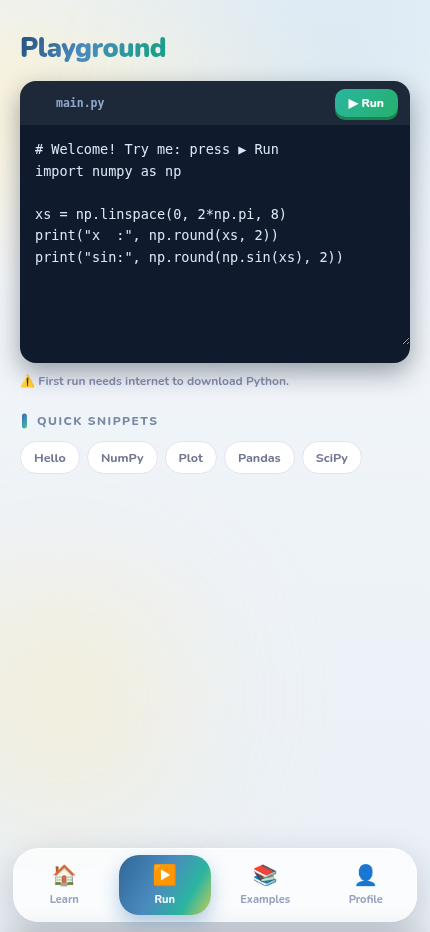
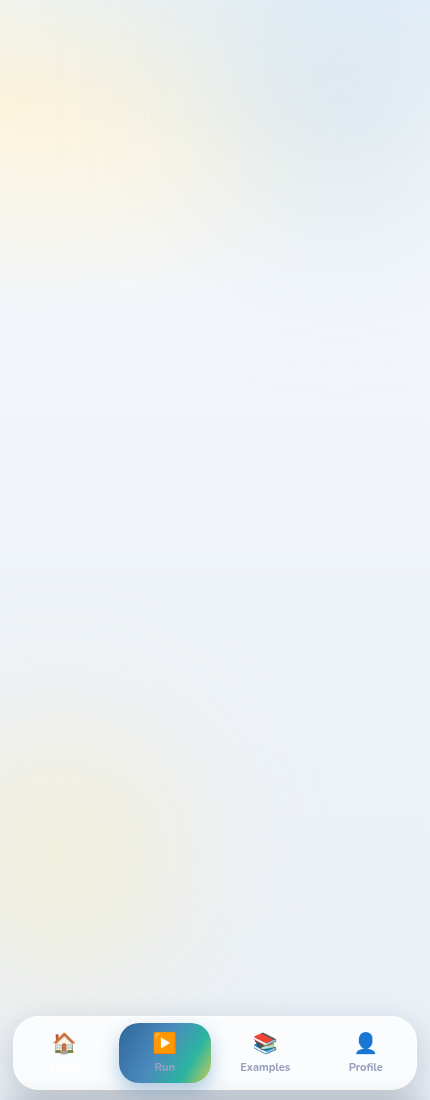
v3: playground snippet library — 88 runnable examples across 5 packages
- New categorized library in the Playground: Python (19), NumPy (18),
  SciPy (14), Pandas (18), Matplotlib (19) — 88 one-tap snippets covering
  f-strings to eigenvalues, t-tests, pivot tables, violin plots, 3-D…
- Category chips with counts; monospace snippet chips load into the editor
- ALL 88 snippets executed and verified through the real Pyodide runtime
  (figures confirmed for every plotting snippet)
- SW cache v3

diff --git a/content.js b/content.js
@@ -649,3 +649,104 @@ EXAMPLES.push(
  {cat:'Python',icon:'🏦',title:{en:'OOP: bank account class',de:'OOP: Bankkonto-Klasse',fa:'شیءگرایی: کلاس حساب بانکی'},
   code:'class Account:\n    def __init__(self, owner):\n        self.owner = owner\n        self.history = []\n\n    def deposit(self, x):  self.history.append(+x); return self\n    def withdraw(self, x): self.history.append(-x); return self\n\n    @property\n    def balance(self):\n        return sum(self.history)\n\nacc = Account("Ada")\nacc.deposit(100).withdraw(30).deposit(55)\nprint(acc.owner, "→", acc.balance, "€")\nprint("transactions:", acc.history)'}
 );
+
+/* ================= playground snippet library (per package) ================= */
+const PGLIB={
+'Python':[
+ {t:'f-strings',c:'name, score = "Ada", 97.5\nprint(f"{name}: {score:.1f} points")\nprint(f"{name!r} padded: |{name:>10}|")\nprint(f"binary of 42: {42:b}, hex: {255:x}")'},
+ {t:'string methods',c:'s = "  Hello, Python World  "\nprint(s.strip())\nprint(s.lower(), "|", s.upper())\nprint(s.replace("World", "🌍"))\nprint("-".join(["a", "b", "c"]))\nprint("hello world".title(), "abc".startswith("ab"))'},
+ {t:'list operations',c:'nums = [3, 1, 4, 1, 5, 9, 2, 6]\nnums.append(5)\nnums.insert(0, 99)\nprint(nums)\nprint("pop:", nums.pop(), "→", nums)\nnums.remove(1)          # first 1 only\nprint(sorted(nums), max(nums), sum(nums))'},
+ {t:'slicing tricks',c:'a = list(range(10))\nprint(a[2:8:2])   # start:stop:step\nprint(a[::-1])    # reverse\nprint(a[-3:])     # last three\nb = a[:]          # copy\nb[0] = 999\nprint(a[0], b[0])'},
+ {t:'dict methods',c:'d = {"a": 1, "b": 2}\nd["c"] = 3\nprint(d.get("z", "default"))\nprint(list(d.keys()), list(d.values()))\nfor k, v in d.items():\n    print(k, "→", v)\nd2 = {**d, "b": 20}   # merge/override\nprint(d2)'},
+ {t:'sets',c:'a = {1, 2, 3, 4}\nb = {3, 4, 5, 6}\nprint("union:       ", a | b)\nprint("intersection:", a & b)\nprint("difference:  ", a - b)\nprint("sym. diff:   ", a ^ b)\nprint(3 in a, 99 in a)'},
+ {t:'comprehensions',c:'squares = [x*x for x in range(10)]\nevens   = [x for x in range(20) if x % 2 == 0]\npairs   = [(i, j) for i in "ab" for j in "12"]\nd       = {w: len(w) for w in ["hi", "hello", "hey"]}\nprint(squares)\nprint(evens)\nprint(pairs)\nprint(d)'},
+ {t:'enumerate & zip',c:'names  = ["Ada", "Alan", "Grace"]\nyears  = [1815, 1912, 1906]\nfor i, name in enumerate(names, start=1):\n    print(i, name)\nfor n, y in zip(names, years):\n    print(f"{n} was born in {y}")\nprint(dict(zip(names, years)))'},
+ {t:'sorting with key',c:'words = ["banana", "fig", "Apple", "date"]\nprint(sorted(words))                     # case-sensitive!\nprint(sorted(words, key=str.lower))\nprint(sorted(words, key=len, reverse=True))\npeople = [("Ada", 36), ("Alan", 41), ("Grace", 85)]\nprint(sorted(people, key=lambda p: p[1]))'},
+ {t:'map / filter / lambda',c:'nums = [1, 2, 3, 4, 5, 6]\ndoubled = list(map(lambda x: 2*x, nums))\nodds    = list(filter(lambda x: x % 2, nums))\nprint(doubled)\nprint(odds)\nprint(list(map(str.upper, ["a", "b"])))'},
+ {t:'exceptions',c:'def parse(x):\n    try:\n        return int(x)\n    except ValueError as e:\n        print("  cannot parse:", e)\n        return None\n\nprint(parse("42"))\nprint(parse("hello"))\n\ntry:\n    raise RuntimeError("custom error!")\nexcept RuntimeError as e:\n    print("caught:", e)'},
+ {t:'classes',c:'class Point:\n    def __init__(self, x, y):\n        self.x, self.y = x, y\n    def __repr__(self):\n        return f"Point({self.x}, {self.y})"\n    def __add__(self, other):\n        return Point(self.x + other.x, self.y + other.y)\n\np = Point(1, 2) + Point(3, 4)\nprint(p)'},
+ {t:'dataclasses',c:'from dataclasses import dataclass\n\n@dataclass\nclass Book:\n    title: str\n    pages: int\n    read: bool = False\n\nb = Book("Fluent Python", 792)\nprint(b)\nb.read = True\nprint(b.read, b.pages > 500)'},
+ {t:'generators',c:'def countdown(n):\n    while n > 0:\n        yield n\n        n -= 1\n\nprint(list(countdown(5)))\n\ngen = (x*x for x in range(1_000_000))  # lazy, no memory!\nprint(next(gen), next(gen), next(gen))\nprint(sum(x for x in range(101)))'},
+ {t:'itertools',c:'import itertools as it\n\nprint(list(it.combinations("ABCD", 2)))\nprint(list(it.permutations("AB")))\nprint(list(it.islice(it.count(10, 5), 4)))\nprint(list(it.chain([1, 2], [3, 4])))\nfor k, grp in it.groupby("aaabbc"):\n    print(k, len(list(grp)))'},
+ {t:'collections',c:'from collections import Counter, defaultdict\n\nc = Counter("mississippi")\nprint(c.most_common(3))\n\nd = defaultdict(list)\nfor word in ["apple", "avocado", "banana", "blueberry"]:\n    d[word[0]].append(word)\nprint(dict(d))'},
+ {t:'datetime',c:'from datetime import date, timedelta\n\ntoday = date(2026, 7, 9)\nbirthday = date(2026, 12, 24)\ndiff = birthday - today\nprint("days to go:", diff.days)\nprint("in 90 days:", today + timedelta(days=90))\nprint(today.strftime("%A, %d %B %Y"))'},
+ {t:'json',c:'import json\n\ndata = {"name": "Ada", "skills": ["math", "python"], "level": 9}\ns = json.dumps(data, indent=2)\nprint(s)\nback = json.loads(s)\nprint(back["skills"][1], type(back))'},
+ {t:'recursion',c:'def factorial(n):\n    return 1 if n <= 1 else n * factorial(n - 1)\n\ndef fib(n, memo={}):\n    if n < 2: return n\n    if n not in memo:\n        memo[n] = fib(n-1) + fib(n-2)\n    return memo[n]\n\nprint("10! =", factorial(10))\nprint("fib(30) =", fib(30))'},
+],
+'NumPy':[
+ {t:'array creation',c:'import numpy as np\nprint(np.array([1, 2, 3]))\nprint(np.zeros((2, 3)))\nprint(np.ones(4))\nprint(np.full((2, 2), 7))\nprint(np.eye(3))'},
+ {t:'arange & linspace',c:'import numpy as np\nprint(np.arange(0, 20, 5))\nprint(np.linspace(0, 1, 6))\nprint(np.logspace(0, 3, 4))    # 1, 10, 100, 1000\nprint(np.arange(12).reshape(3, 4))'},
+ {t:'dtype & astype',c:'import numpy as np\na = np.array([1.7, 2.3, 3.9])\nprint(a.dtype)\nprint(a.astype(int))            # truncates!\nprint(np.round(a).astype(int))\nb = np.array([1, 2, 3], dtype=np.float32)\nprint(b.dtype, b.nbytes, "bytes")'},
+ {t:'2-D indexing',c:'import numpy as np\nm = np.arange(1, 13).reshape(3, 4)\nprint(m)\nprint("row 0:   ", m[0])\nprint("col 1:   ", m[:, 1])\nprint("center:  ", m[1, 1:3])\nprint("corners:\\n", m[::2, ::3])'},
+ {t:'boolean masks',c:'import numpy as np\nx = np.array([12, 5, 8, 20, 3, 15])\nprint(x[x > 10])\nprint(x[(x > 4) & (x < 16)])   # & not "and"!\nx[x < 6] = 0\nprint(x)\nprint("how many > 10:", (x > 10).sum())'},
+ {t:'fancy indexing',c:'import numpy as np\nx = np.array([10, 20, 30, 40, 50])\nidx = [0, 3, 3, 4]\nprint(x[idx])\norder = np.argsort([3, 1, 2])\nprint(order, x[:3][order])'},
+ {t:'broadcasting',c:'import numpy as np\nrow = np.array([1, 2, 3])\ncol = np.array([[10], [20], [30]])\nprint(row + col)        # 3x3!\nm = np.ones((3, 3))\nprint(m * row)\nprint((m.T * row).T)'},
+ {t:'aggregations & axis',c:'import numpy as np\nm = np.array([[4, 9, 2], [7, 1, 6]])\nprint("all:", m.sum(), m.mean().round(2))\nprint("per col:", m.sum(axis=0))\nprint("per row:", m.max(axis=1))\nprint("argmax:", m.argmax(), "→ pos", np.unravel_index(m.argmax(), m.shape))'},
+ {t:'sort & argsort',c:'import numpy as np\nx = np.array([30, 10, 50, 20])\nprint(np.sort(x))\nprint(np.argsort(x))       # indexes that would sort\nnames = np.array(["c", "a", "d", "b"])\nprint(names[np.argsort(x)])'},
+ {t:'unique & counts',c:'import numpy as np\nvotes = np.array(["a","b","a","c","b","a","a"])\nvals, counts = np.unique(votes, return_counts=True)\nfor v, c in zip(vals, counts):\n    print(v, "→", c)\nprint("winner:", vals[counts.argmax()])'},
+ {t:'np.where & select',c:'import numpy as np\ntemp = np.array([28, 12, 33, 5, 21])\nprint(np.where(temp > 20, "warm", "cold"))\ngrade = np.select([temp >= 30, temp >= 15], ["hot", "mild"], "cold")\nprint(grade)\nprint(np.clip(temp, 10, 30))'},
+ {t:'stack & concatenate',c:'import numpy as np\na = np.array([1, 2, 3]); b = np.array([4, 5, 6])\nprint(np.concatenate([a, b]))\nprint(np.vstack([a, b]))\nprint(np.hstack([a.reshape(-1,1), b.reshape(-1,1)]))\nprint(np.column_stack([a, b]))'},
+ {t:'random generator',c:'import numpy as np\nrng = np.random.default_rng(42)\nprint(rng.integers(1, 7, 8))          # dice\nprint(rng.random(3).round(3))\nprint(rng.normal(100, 15, 4).round(1))\nprint(rng.choice(["red","green","blue"], 5))\nprint(rng.permutation(np.arange(6)))'},
+ {t:'cumsum & diff',c:'import numpy as np\nx = np.array([1, 3, 6, 10, 15])\nprint("cumsum:", np.cumsum([1, 2, 3, 4, 5]))\nprint("diff:  ", np.diff(x))\nprint("cumprod:", np.cumprod([1, 2, 3, 4]))'},
+ {t:'percentile & stats',c:'import numpy as np\nrng = np.random.default_rng(1)\ndata = rng.normal(50, 10, 1000)\nprint("mean/median:", data.mean().round(2), np.median(data).round(2))\nprint("std:", data.std().round(2))\nfor q in [25, 50, 75, 95]:\n    print(f"p{q}: {np.percentile(data, q):.1f}")'},
+ {t:'linalg: solve & det',c:'import numpy as np\nA = np.array([[3., 1.], [1., 2.]])\nb = np.array([9., 8.])\nprint("x =", np.linalg.solve(A, b))\nprint("det =", np.linalg.det(A))\nprint("inv:\\n", np.linalg.inv(A).round(3))'},
+ {t:'eigenvalues',c:'import numpy as np\nA = np.array([[2., 0.], [1., 3.]])\nw, v = np.linalg.eig(A)\nprint("eigenvalues: ", w)\nprint("eigenvectors:\\n", v.round(3))\nprint("check A·v = λ·v:", np.allclose(A @ v[:,0], w[0]*v[:,0]))'},
+ {t:'matrix power & norm',c:'import numpy as np\nA = np.array([[1, 1], [1, 0]])\nprint(np.linalg.matrix_power(A, 10))   # Fibonacci!\nv = np.array([3., 4.])\nprint("norm:", np.linalg.norm(v))\nprint("normalized:", (v / np.linalg.norm(v)).round(3))'},
+],
+'SciPy':[
+ {t:'norm pdf & cdf',c:'from scipy import stats\nprint("P(x<1.96):", stats.norm.cdf(1.96).round(4))\nprint("95% quantile:", stats.norm.ppf(0.975).round(3))\nprint("density at 0:", stats.norm.pdf(0).round(4))\nprint("IQ>130:", (1 - stats.norm.cdf(130, 100, 15)).round(4))'},
+ {t:'describe data',c:'from scipy import stats\nimport numpy as np\ndata = np.random.default_rng(0).normal(10, 2, 500)\nd = stats.describe(data)\nprint("n:", d.nobs)\nprint("mean:", round(d.mean, 3), " var:", round(d.variance, 3))\nprint("min/max:", np.round(d.minmax, 2))\nprint("skew:", round(d.skewness, 3))'},
+ {t:'t-test',c:'from scipy import stats\nimport numpy as np\nrng = np.random.default_rng(1)\na = rng.normal(10.0, 2, 60)\nb = rng.normal(11.2, 2, 60)\nt, p = stats.ttest_ind(a, b)\nprint(f"t={t:.2f}  p={p:.4f}")\nprint("significant at 5%:", p < 0.05)'},
+ {t:'correlation (pearson)',c:'from scipy import stats\nimport numpy as np\nrng = np.random.default_rng(2)\nx = rng.random(100)\ny = 2*x + rng.normal(0, .2, 100)\nr, p = stats.pearsonr(x, y)\nprint(f"r = {r:.3f}, p = {p:.2e}")\nrho, _ = stats.spearmanr(x, y)\nprint(f"spearman rho = {rho:.3f}")'},
+ {t:'binomial & poisson',c:'from scipy import stats\n# 10 coin flips: P(exactly 7 heads)?\nprint("P(7 heads):", stats.binom.pmf(7, 10, 0.5).round(4))\nprint("P(≥8 heads):", (1 - stats.binom.cdf(7, 10, 0.5)).round(4))\n# shop: 4 customers/hour on average → P(0 in an hour)?\nprint("P(0 customers):", stats.poisson.pmf(0, 4).round(4))'},
+ {t:'minimize',c:'from scipy import optimize\nimport numpy as np\nf = lambda x: (x - 2)**2 + np.sin(5*x)\nres = optimize.minimize_scalar(f, bounds=(0, 4), method="bounded")\nprint("min at x =", round(res.x, 4))\nprint("f(x) =", round(res.fun, 4))'},
+ {t:'curve_fit',c:'import numpy as np\nfrom scipy.optimize import curve_fit\nrng = np.random.default_rng(0)\nx = np.linspace(0, 10, 50)\ny = 3*np.sin(0.8*x) + rng.normal(0, .3, 50)\nf = lambda x, a, w: a*np.sin(w*x)\n(a, w), _ = curve_fit(f, x, y, p0=[1, 1])\nprint(f"fitted: {a:.2f}·sin({w:.2f}·x)")'},
+ {t:'root finding',c:'from scipy import optimize\nimport numpy as np\n# where does x·e^x = 5 ?\nroot = optimize.brentq(lambda x: x*np.exp(x) - 5, 0, 3)\nprint("x =", round(root, 5))\nprint("check:", round(root*np.exp(root), 3))'},
+ {t:'integrate quad',c:'from scipy import integrate\nimport numpy as np\narea, err = integrate.quad(lambda x: np.exp(-x**2), -np.inf, np.inf)\nprint("Gauss integral:", round(area, 6))\nprint("√π           :", round(np.sqrt(np.pi), 6))\narea2, _ = integrate.quad(np.sin, 0, np.pi)\nprint("∫sin 0..π =", round(area2, 6))'},
+ {t:'solve ODE',c:'from scipy.integrate import solve_ivp\nimport numpy as np\n# exponential cooling: T\' = -0.3(T - 20)\nsol = solve_ivp(lambda t, T: -0.3*(T - 20), [0, 10], [90],\n                t_eval=np.linspace(0, 10, 6))\nfor t, T in zip(sol.t, sol.y[0]):\n    print(f"t={t:4.1f}  T={T:5.1f}°C")'},
+ {t:'interpolate',c:'from scipy import interpolate\nimport numpy as np\nx = np.array([0, 1, 2, 3, 4])\ny = np.array([0, 2, 1, 3, 2])\nf = interpolate.interp1d(x, y, kind="cubic")\nxs = np.linspace(0, 4, 9)\nprint(np.round(f(xs), 2))'},
+ {t:'find peaks',c:'from scipy.signal import find_peaks\nimport numpy as np\nt = np.linspace(0, 6*np.pi, 300)\nsig = np.sin(t) + 0.4*np.sin(3.3*t)\npeaks, props = find_peaks(sig, height=0.5)\nprint("peaks found:", len(peaks))\nprint("at t ≈", np.round(t[peaks], 2))'},
+ {t:'k-means',c:'from scipy.cluster.vq import kmeans2\nimport numpy as np\nrng = np.random.default_rng(5)\npts = np.vstack([rng.normal(0, .5, (50, 2)),\n                 rng.normal(3, .5, (50, 2))])\ncenters, labels = kmeans2(pts, 2, seed=2)\nprint("centers:\\n", centers.round(2))\nprint("cluster sizes:", np.bincount(labels))'},
+ {t:'distance matrix',c:'from scipy.spatial import distance_matrix\nimport numpy as np\ncities = np.array([[0, 0], [3, 4], [6, 8]])\nD = distance_matrix(cities, cities)\nprint(D.round(2))\nprint("farthest pair:", np.unravel_index(D.argmax(), D.shape))'},
+],
+'Pandas':[
+ {t:'Series basics',c:'import pandas as pd\ns = pd.Series([10, 20, 30], index=["a", "b", "c"])\nprint(s)\nprint(s["b"], s.mean(), s.idxmax())\nprint(s * 2)'},
+ {t:'DataFrame create',c:'import pandas as pd\ndf = pd.DataFrame({\n    "name": ["Ada", "Alan", "Grace"],\n    "age":  [36, 41, 85],\n    "field":["math", "cs", "cs"],\n})\nprint(df)\nprint()\nprint(df.shape, list(df.columns))'},
+ {t:'head / info / describe',c:'import pandas as pd\nimport numpy as np\ndf = pd.DataFrame(np.random.default_rng(0).normal(50, 10, (100, 3)),\n                  columns=["a", "b", "c"])\nprint(df.head(3).round(1))\nprint()\nprint(df.describe().round(1))'},
+ {t:'loc & iloc',c:'import pandas as pd\ndf = pd.DataFrame({"x": [1, 2, 3], "y": [10, 20, 30]},\n                  index=["r1", "r2", "r3"])\nprint(df.loc["r2"])          # by label\nprint(df.iloc[0])            # by position\nprint(df.loc["r1":"r2", "y"])\nprint(df.iloc[0:2, 1])'},
+ {t:'filtering',c:'import pandas as pd\ndf = pd.DataFrame({"city": ["Berlin","Munich","Hamburg","Cologne"],\n                   "pop": [3.7, 1.5, 1.9, 1.1]})\nprint(df[df["pop"] > 1.4])\nprint()\nprint(df.query("pop > 1.4 and city != \'Berlin\'"))\nprint(df[df.city.isin(["Berlin", "Cologne"])])'},
+ {t:'new columns',c:'import pandas as pd\ndf = pd.DataFrame({"price": [100, 250, 80], "qty": [3, 1, 5]})\ndf["total"] = df.price * df.qty\ndf["expensive"] = df.price > 90\ndf = df.assign(tax=lambda d: d.total * 0.19)\nprint(df)'},
+ {t:'sort & rank',c:'import pandas as pd\ndf = pd.DataFrame({"team": list("ABCD"), "pts": [7, 12, 7, 3]})\nprint(df.sort_values("pts", ascending=False))\ndf["rank"] = df.pts.rank(ascending=False, method="min")\nprint(df)\nprint(df.nlargest(2, "pts"))'},
+ {t:'value_counts',c:'import pandas as pd\ns = pd.Series(["red","blue","red","green","red","blue"])\nprint(s.value_counts())\nprint()\nprint(s.value_counts(normalize=True).round(2))\nprint(s.nunique(), "unique colors")'},
+ {t:'groupby & agg',c:'import pandas as pd\ndf = pd.DataFrame({\n    "dept":   ["IT","IT","HR","HR","Sales"],\n    "salary": [70, 85, 50, 55, 60],\n})\nprint(df.groupby("dept")["salary"].mean())\nprint()\nprint(df.groupby("dept")["salary"].agg(["count", "mean", "max"]))'},
+ {t:'pivot_table',c:'import pandas as pd\ndf = pd.DataFrame({\n    "month":  ["Jan","Jan","Feb","Feb"],\n    "product":["A","B","A","B"],\n    "sales":  [10, 15, 12, 18],\n})\nprint(df.pivot_table(index="month", columns="product", values="sales"))'},
+ {t:'merge (join)',c:'import pandas as pd\nusers  = pd.DataFrame({"uid": [1, 2, 3], "name": ["Ada","Alan","Grace"]})\norders = pd.DataFrame({"uid": [1, 1, 3], "total": [50, 30, 120]})\nprint(pd.merge(users, orders, on="uid", how="left"))'},
+ {t:'concat',c:'import pandas as pd\nq1 = pd.DataFrame({"month": ["Jan","Feb"], "rev": [10, 12]})\nq2 = pd.DataFrame({"month": ["Mar","Apr"], "rev": [14, 11]})\nboth = pd.concat([q1, q2], ignore_index=True)\nprint(both)\nprint("total:", both.rev.sum())'},
+ {t:'missing values',c:'import pandas as pd\nimport numpy as np\ndf = pd.DataFrame({"a": [1, np.nan, 3], "b": [np.nan, 5, 6]})\nprint(df.isna().sum())\nprint(df.fillna(0))\nprint(df.dropna())\nprint(df.fillna(df.mean()).round(1))'},
+ {t:'apply & map',c:'import pandas as pd\ndf = pd.DataFrame({"name": ["ada lovelace", "alan turing"]})\ndf["proper"] = df.name.apply(str.title)\ndf["initials"] = df.name.map(lambda s: "".join(w[0].upper() for w in s.split()))\nprint(df)'},
+ {t:'.str accessor',c:'import pandas as pd\ns = pd.Series(["apple pie", "banana split", "cherry cake"])\nprint(s.str.upper())\nprint(s.str.contains("an"))\nprint(s.str.split().str[0])\nprint(s.str.len())'},
+ {t:'.dt accessor',c:'import pandas as pd\ndates = pd.Series(pd.date_range("2024-12-28", periods=6))\ndf = pd.DataFrame({"date": dates})\ndf["weekday"] = df.date.dt.day_name()\ndf["month"]   = df.date.dt.month\ndf["is_weekend"] = df.date.dt.dayofweek >= 5\nprint(df)'},
+ {t:'resample',c:'import pandas as pd\nimport numpy as np\ndays = pd.date_range("2024-01-01", periods=60)\nts = pd.Series(np.arange(60) + np.random.default_rng(0).normal(0, 5, 60), index=days)\nprint("weekly mean:")\nprint(ts.resample("W").mean().round(1).head())\nprint("monthly max:")\nprint(ts.resample("ME").max().round(1))'},
+ {t:'rolling window',c:'import pandas as pd\ns = pd.Series([1, 3, 2, 6, 4, 8, 7, 12])\nprint(pd.DataFrame({\n    "raw": s,\n    "roll3_mean": s.rolling(3).mean(),\n    "roll3_max":  s.rolling(3).max(),\n    "expanding":  s.expanding().mean().round(2),\n}))'},
+],
+'Matplotlib':[
+ {t:'line styles',c:'import numpy as np\nimport matplotlib.pyplot as plt\nx = np.linspace(0, 10, 60)\nplt.plot(x, np.sin(x), "b-",  label="solid")\nplt.plot(x, np.sin(x-1), "r--", label="dashed")\nplt.plot(x, np.sin(x-2), "g:o", markersize=3, label="dotted+o")\nplt.legend(); plt.show()'},
+ {t:'legend & grid',c:'import numpy as np\nimport matplotlib.pyplot as plt\nx = np.linspace(0, 2*np.pi, 100)\nfor k in [1, 2, 3]:\n    plt.plot(x, np.sin(k*x)/k, label=f"sin({k}x)/{k}")\nplt.legend(loc="upper right", ncol=3)\nplt.grid(True, alpha=.4)\nplt.title("Harmonics"); plt.show()'},
+ {t:'scatter + colormap',c:'import numpy as np\nimport matplotlib.pyplot as plt\nrng = np.random.default_rng(0)\nx, y = rng.random(150), rng.random(150)\nsize = 300 * rng.random(150)\nplt.scatter(x, y, s=size, c=x+y, cmap="plasma", alpha=.6, edgecolors="w")\nplt.colorbar(label="x+y")\nplt.title("Bubble scatter"); plt.show()'},
+ {t:'bar & barh',c:'import matplotlib.pyplot as plt\nlangs = ["Python", "JS", "Rust", "Go"]\nusage = [52, 45, 18, 14]\nfig, ax = plt.subplots(1, 2, figsize=(9, 3.5))\nax[0].bar(langs, usage, color="#4b8bbe")\nax[1].barh(langs, usage, color="#2bb5a0")\nplt.tight_layout(); plt.show()'},
+ {t:'grouped bars',c:'import numpy as np\nimport matplotlib.pyplot as plt\nlabels = ["Q1", "Q2", "Q3", "Q4"]\na = [20, 34, 30, 35]; b = [25, 32, 34, 20]\nx = np.arange(4); w = 0.35\nplt.bar(x - w/2, a, w, label="2023")\nplt.bar(x + w/2, b, w, label="2024")\nplt.xticks(x, labels); plt.legend()\nplt.title("Grouped bars"); plt.show()'},
+ {t:'histogram',c:'import numpy as np\nimport matplotlib.pyplot as plt\nrng = np.random.default_rng(3)\nplt.hist(rng.normal(0, 1, 800), bins=40, alpha=.7, label="σ=1")\nplt.hist(rng.normal(0, 2, 800), bins=40, alpha=.5, label="σ=2")\nplt.legend(); plt.title("Two distributions"); plt.show()'},
+ {t:'pie chart',c:'import matplotlib.pyplot as plt\nplt.pie([40, 30, 20, 10],\n        labels=["work", "sleep", "code", "fun"],\n        autopct="%1.0f%%", startangle=90,\n        explode=[0, 0, 0.1, 0],\n        colors=["#4b8bbe","#2bb5a0","#f5b027","#c0356b"])\nplt.title("A developer day"); plt.show()'},
+ {t:'boxplot',c:'import numpy as np\nimport matplotlib.pyplot as plt\nrng = np.random.default_rng(7)\ndata = [rng.normal(m, s, 200) for m, s in [(5,1),(7,2),(6,0.5)]]\nplt.boxplot(data)\nplt.xticks([1,2,3], ["A", "B", "C"])\nplt.title("Boxplots"); plt.show()'},
+ {t:'violin',c:'import numpy as np\nimport matplotlib.pyplot as plt\nrng = np.random.default_rng(1)\ndata = [np.concatenate([rng.normal(4,1,150), rng.normal(8,1,150)]),\n        rng.normal(6, 1.5, 300)]\nplt.violinplot(data, showmedians=True)\nplt.xticks([1,2], ["bimodal", "normal"])\nplt.title("Violin plots show shape!"); plt.show()'},
+ {t:'stackplot',c:'import numpy as np\nimport matplotlib.pyplot as plt\nx = np.arange(2018, 2026)\ncloud = [5, 8, 13, 20, 28, 37, 45, 52]\nonprem = [40, 38, 35, 31, 27, 22, 18, 15]\nplt.stackplot(x, cloud, onprem, labels=["cloud", "on-prem"],\n              colors=["#4b8bbe", "#f5b027"], alpha=.8)\nplt.legend(loc="upper left"); plt.show()'},
+ {t:'fill_between',c:'import numpy as np\nimport matplotlib.pyplot as plt\nx = np.linspace(0, 10, 200)\ny = np.sin(x)\nplt.plot(x, y, "k")\nplt.fill_between(x, y, 0, where=y>0, color="#2bb5a0", alpha=.5, label="positive")\nplt.fill_between(x, y, 0, where=y<0, color="#c0356b", alpha=.5, label="negative")\nplt.legend(); plt.show()'},
+ {t:'errorbar',c:'import numpy as np\nimport matplotlib.pyplot as plt\nx = np.arange(1, 8)\ny = np.array([2.1, 3.4, 4.2, 5.4, 5.9, 7.2, 7.8])\nplt.errorbar(x, y, yerr=0.4+0.1*x, fmt="s-", capsize=5, color="#306698")\nplt.title("Measurement ± growing error"); plt.show()'},
+ {t:'twin axes',c:'import numpy as np\nimport matplotlib.pyplot as plt\nx = np.arange(1, 13)\nfig, ax = plt.subplots()\nax.plot(x, 15+10*np.sin(x/2), "r-o"); ax.set_ylabel("temp °C", color="r")\nax2 = ax.twinx()\nax2.bar(x, 50+30*np.cos(x/2), alpha=.3); ax2.set_ylabel("rain mm", color="b")\nplt.show()'},
+ {t:'subplots grid',c:'import numpy as np\nimport matplotlib.pyplot as plt\nx = np.linspace(0, 2*np.pi, 100)\nfig, axs = plt.subplots(2, 2, figsize=(8, 5))\nfor ax, f in zip(axs.flat, [np.sin, np.cos, np.tan, np.sinc]):\n    ax.plot(x, np.clip(f(x), -3, 3))\n    ax.set_title(f.__name__)\nplt.tight_layout(); plt.show()'},
+ {t:'annotate & text',c:'import numpy as np\nimport matplotlib.pyplot as plt\nx = np.linspace(0, 10, 200)\ny = np.sin(x)*np.exp(-x/6)\nplt.plot(x, y)\ni = np.argmax(y)\nplt.annotate("maximum!", xy=(x[i], y[i]), xytext=(x[i]+2, y[i]),\n             arrowprops=dict(arrowstyle="->", color="red"))\nplt.text(6, -0.5, "damped sine", fontsize=12, style="italic")\nplt.show()'},
+ {t:'imshow heatmap',c:'import numpy as np\nimport matplotlib.pyplot as plt\nx = np.linspace(-2, 2, 150)\nX, Y = np.meshgrid(x, x)\nZ = np.exp(-(X**2+Y**2)) * np.cos(3*X) \nplt.imshow(Z, extent=[-2,2,-2,2], cmap="coolwarm", origin="lower")\nplt.colorbar(); plt.title("2-D function"); plt.show()'},
+ {t:'polar plot',c:'import numpy as np\nimport matplotlib.pyplot as plt\ntheta = np.linspace(0, 2*np.pi, 400)\nr = 1 + 0.6*np.sin(5*theta)\nax = plt.subplot(projection="polar")\nax.plot(theta, r, color="#7b5fe0")\nax.fill(theta, r, alpha=.25, color="#7b5fe0")\nplt.title("Polar flower"); plt.show()'},
+ {t:'3-D surface',c:'import numpy as np\nimport matplotlib.pyplot as plt\nx = np.linspace(-2, 2, 60)\nX, Y = np.meshgrid(x, x)\nZ = X*np.exp(-X**2-Y**2)\nax = plt.axes(projection="3d")\nax.plot_surface(X, Y, Z, cmap="viridis")\nax.view_init(30, 45)\nplt.show()'},
+ {t:'log scale',c:'import numpy as np\nimport matplotlib.pyplot as plt\nn = np.arange(1, 21)\nfig, ax = plt.subplots(1, 2, figsize=(9, 3.5))\nax[0].plot(n, 2.0**n, "o-"); ax[0].set_title("linear scale")\nax[1].semilogy(n, 2.0**n, "o-", color="#c0356b"); ax[1].set_title("log scale")\nplt.tight_layout(); plt.show()'},
+]};

diff --git a/pgt.js b/pgt.js
@@ -1,0 +1,29 @@
+window.onerror=(m,src,l,c)=>{document.title='ERR::'+m+' @'+l;};
+window.addEventListener('load',()=>setTimeout(async ()=>{
+  const wait=ms=>new Promise(r=>setTimeout(r,ms));
+  const log=[];
+  try{
+    show('playground');await wait(200);
+    const cats=[...document.querySelectorAll('#pgChips [data-c]')];
+    log.push('cats='+cats.map(c=>c.textContent).join('|'));
+    // switch to Pandas, load 3rd snippet
+    cats.find(c=>c.dataset.c==='Pandas').click();await wait(150);
+    const snips=[...document.querySelectorAll('#pgChips .snip')];
+    log.push('pandasSnips='+snips.length);
+    snips[2].click();await wait(100);
+    log.push('editorLoaded='+(document.getElementById('pgCode').value.includes('describe')?'ok':'BAD'));
+    // runtime spot-check: 2 random snippets from each category
+    let ok=0,fail=[];
+    for(const cat of Object.keys(PGLIB)){
+      const picks=[0, Math.floor(PGLIB[cat].length/2)];
+      for(const i of picks){
+        const r=await PyRun(PGLIB[cat][i].c);
+        const needFig=/plt\./.test(PGLIB[cat][i].c);
+        if(r.ok&&(!needFig||r.figs.length>0))ok++;
+        else fail.push(cat+'/'+PGLIB[cat][i].t+': '+String(r.err||'nofig').slice(0,50));
+      }
+    }
+    log.push('spotRun ok='+ok+'/10 fail='+(fail.length?fail.join(' | '):'0'));
+    document.title='RESULT::'+log.join(' || ');
+  }catch(e){document.title='ERR::'+e.message;}
+},400));

diff --git a/pga.js b/pga.js
@@ -1,0 +1,13 @@
+window.addEventListener('load',()=>setTimeout(async ()=>{
+  let ok=0;const fail=[];
+  for(const cat of Object.keys(PGLIB)){
+    for(const sn of PGLIB[cat]){
+      const r=await PyRun(sn.c);
+      const needFig=/plt\./.test(sn.c);
+      if(r.ok&&(!needFig||r.figs.length>0))ok++;
+      else fail.push(cat+'/'+sn.t+': '+String(r.err||'nofig').slice(0,60));
+    }
+    document.title='PROG::'+cat+' done, ok='+ok;
+  }
+  document.title='RESULT::ok='+ok+'/88 fail='+(fail.length?fail.join(' § '):'0');
+},400));

diff --git a/sw.js b/sw.js
@@ -1,5 +1,5 @@
 /* Python Trainer service worker — app shell + Pyodide runtime cache */
-const CACHE = 'python-trainer-v2';
+const CACHE = 'python-trainer-v3';
 const PYCACHE = 'pyodide-cache-v1';
 const ASSETS = ['./','./index.html','./content.js','./runner.js','./manifest.webmanifest',
   './icon-192.png','./icon-512.png','./apple-touch-icon.png','./fonts/nunito.woff2'];